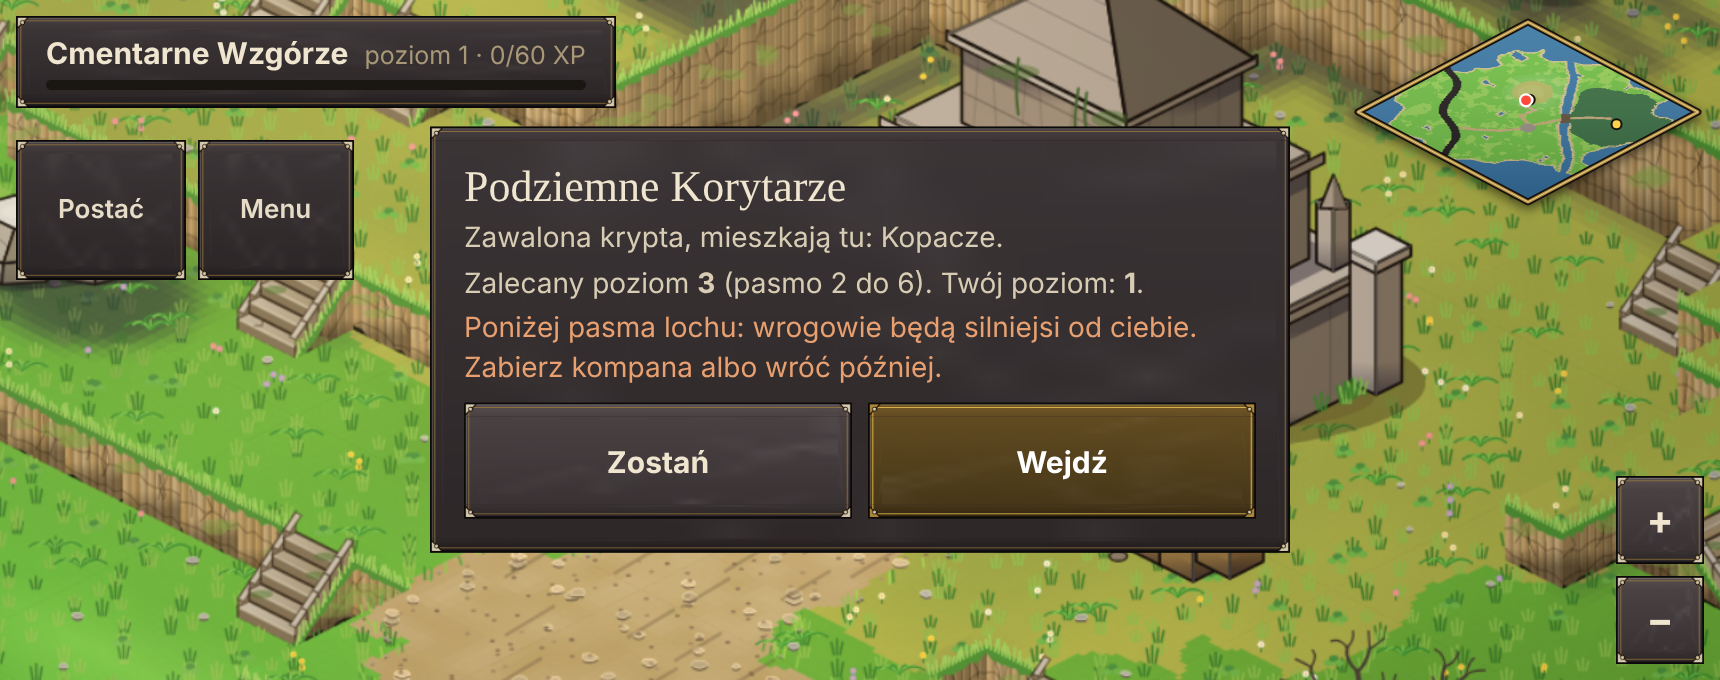
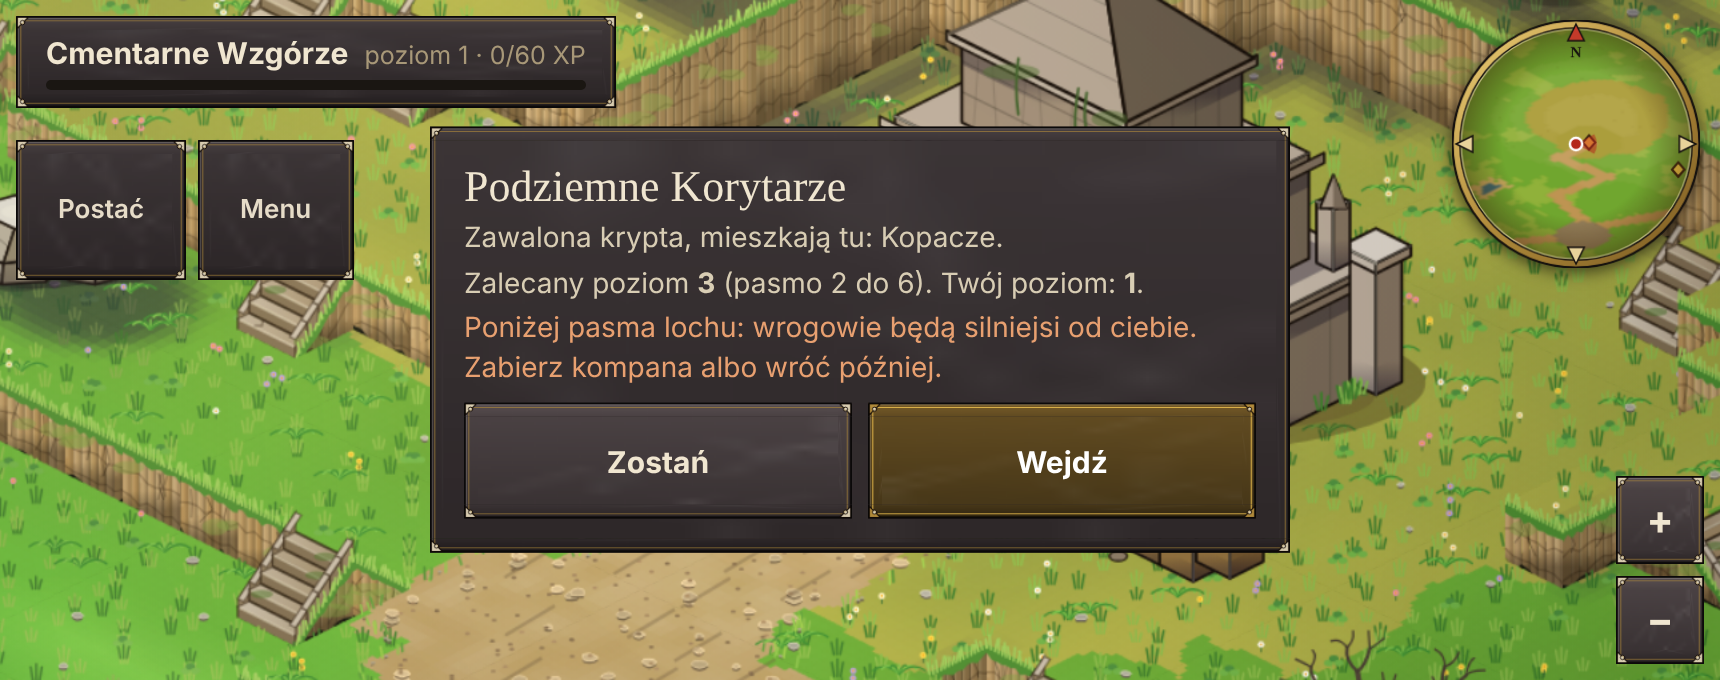
Minimapa w okręgu, trzy style do wyboru (Pergamin, Kryształ, Kompas), opcja w menu
Claude-Session: https://claude.ai/code/session_01YGgK3XekFYaLDhBRBtmmRq

Changed region(s): [[0.7703, 0.0309, 1.0, 0.4324]]

diff --git a/www/swiat.html b/www/swiat.html
@@ -11,7 +11,7 @@ button{font-family:inherit;color:inherit;touch-action:manipulation}
 #pause{position:fixed;inset:0;z-index:5;display:none;align-items:center;justify-content:center;background:rgba(6,6,8,.55)}#pause.on{display:flex}#pbox{position:static;pointer-events:auto;padding:8px 14px 12px;min-width:min(86vw,460px)}#pbox h2{margin:2px 0 8px;font:400 22px Georgia,serif}
 .opt{display:flex;align-items:center;justify-content:space-between;gap:10px;margin:6px 0;font-size:14px}.seg{display:flex;gap:4px}.seg button{min-height:38px;padding:0 12px;border:0;border-radius:8px;background:#2a2425;color:#d8cdb4;font:600 13px system-ui}.seg button.on{background:#b4501c;color:#fff}
 #pbox .row{display:flex;gap:8px;margin-top:10px}#pbox .row a,#pbox .row button{flex:1;min-height:44px;display:flex;align-items:center;justify-content:center;border:0;border-radius:10px;background:#3a2c26;color:#fff;text-decoration:none;font:700 14px system-ui}#pbox .row .go{background:#b4501c}
-#fps{right:max(8px,env(safe-area-inset-right));top:calc(max(8px,env(safe-area-inset-top)) + 100px);font:600 12px ui-monospace,monospace;padding:2px 8px;display:none}
+#fps{right:max(8px,env(safe-area-inset-right));top:calc(max(10px,env(safe-area-inset-top)) + 130px);font:600 12px ui-monospace,monospace;padding:2px 8px;display:none}
 #menu{position:fixed;left:max(8px,env(safe-area-inset-left));top:calc(max(8px,env(safe-area-inset-top)) + 62px);display:flex;gap:6px}#menu{z-index:3}#menu a,#menu button{pointer-events:auto;position:static;color:#e6dcc8;text-decoration:none;font:600 13px system-ui;padding:8px 14px;min-height:40px;display:flex;align-items:center}
 #toast{top:calc(max(8px,env(safe-area-inset-top)) + 4px);left:50%;transform:translateX(-50%);font:400 22px Georgia,serif;letter-spacing:.04em;opacity:0;transition:opacity .5s}
 #toast.on{opacity:1}
@@ -19,8 +19,8 @@ button{font-family:inherit;color:inherit;touch-action:manipulation}
 #hint:empty{display:none}
 #bubble{left:50%;top:38%;transform:translateX(-50%);max-width:min(60vw,520px);text-align:center;font-size:14px;line-height:1.4;display:none}
 #bubble b{display:block;color:#e0b44a;margin-bottom:2px}
-#mini{position:fixed;right:max(8px,env(safe-area-inset-right));top:max(8px,env(safe-area-inset-top));width:176px;height:96px;pointer-events:none}
-#mini canvas{width:176px;height:96px;display:block;filter:drop-shadow(0 2px 3px rgba(0,0,0,.55))}
+#mini{position:fixed;right:max(10px,env(safe-area-inset-right));top:max(10px,env(safe-area-inset-top));width:124px;height:124px;pointer-events:none}
+#mini canvas{width:124px;height:124px;display:block;filter:drop-shadow(0 2px 4px rgba(0,0,0,.6))}
 .zb{position:fixed;right:max(8px,env(safe-area-inset-right));width:44px;height:44px;border:7px solid transparent;border-image:var(--f-btn) 16 fill/7px stretch;background:#2a2425;font:700 20px system-ui;padding:0}
 #zin{bottom:calc(max(8px,env(safe-area-inset-bottom)) + 50px)}#zout{bottom:max(8px,env(safe-area-inset-bottom))}
 #card{left:50%;top:50%;transform:translate(-50%,-50%);display:none;pointer-events:auto;min-width:260px;max-width:min(78vw,430px);padding:6px 10px 10px}
@@ -35,9 +35,9 @@ button{font-family:inherit;color:inherit;touch-action:manipulation}
 <canvas id="c"></canvas>
 <div id="hud" class="pill"><span id="reg">Kopiec</span><small id="lvl"></small><i id="xpb"><b></b></i></div>
 <div id="menu"><a class="pill" id="mchar" href="postac.html?back=swiat.html">Postać</a><button class="pill" id="mmenu" type="button">Menu</button></div>
-<div id="pause"><div class="pill" id="pbox"><h2>Menu</h2><div class="opt"><span>Jakość grafiki</span><div class="seg" id="oq"></div></div><div class="opt"><span>Pora dnia</span><div class="seg" id="ot"></div></div><div class="opt"><span>Licznik FPS</span><div class="seg" id="of"></div></div><div class="row"><button id="presume" class="go" type="button">Wznów</button><a href="postac.html?back=swiat.html">Postać</a><a href="index.html">Menu główne</a></div></div></div><div id="fps" class="pill"></div>
+<div id="pause"><div class="pill" id="pbox"><h2>Menu</h2><div class="opt"><span>Jakość grafiki</span><div class="seg" id="oq"></div></div><div class="opt"><span>Pora dnia</span><div class="seg" id="ot"></div></div><div class="opt"><span>Minimapa</span><div class="seg" id="om"></div></div><div class="opt"><span>Licznik FPS</span><div class="seg" id="of"></div></div><div class="row"><button id="presume" class="go" type="button">Wznów</button><a href="postac.html?back=swiat.html">Postać</a><a href="index.html">Menu główne</a></div></div></div><div id="fps" class="pill"></div>
 <div id="toast" class="pill"></div>
-<div id="mini"><canvas id="mm" width="352" height="192"></canvas></div>
+<div id="mini"><canvas id="mm" width="240" height="240"></canvas></div>
 <button class="zb" id="zin" aria-label="Przybliż">+</button><button class="zb" id="zout" aria-label="Oddal">−</button>
 <div id="bubble" class="pill"></div>
 <div id="card" class="pill"></div>
@@ -49,7 +49,7 @@ import {generateWorld,N,REGIONS,HZ} from '../src/world/kraina.js';
 import {heightAt,findPath,newWalker,setPath,stepWalker,freeAt} from '../src/world/nav.js';
 import {WorldView} from '../src/art/worldview.js';
 import {genCharacter,drawCharacter,DIRS,DIRS8,dir8} from '../src/art/characters.js';
-import {loadSettings,saveSettings,QUALITY,QUALITY_IDS,TIME_MODES,TIME_NAMES} from '../src/game/settings.js';
+import {loadSettings,saveSettings,QUALITY,QUALITY_IDS,TIME_MODES,TIME_NAMES,MINIMAPS,MINIMAP_NAMES} from '../src/game/settings.js';
 import {darkness,drawNight} from '../src/art/daylight.js';
 import {heroSpec} from '../src/art/classes.js';
 import {applyMood} from '../src/art/mood.js';
@@ -67,7 +67,7 @@ const hero=newWalker(...world.start);let face='SE';
 const AT={krypta:world.entrances[0].approach,jama:world.entrances[1].approach,start:world.start,bród:world.roads.east[2],ford:world.roads.east[2],trakt:world.roads.west[3],wzgorze:world.roads.up[2],las:world.roads.east[4],plac:[world.start[0]-4,world.start[1]-9],studnia:(()=>{const o=world.objects.find(q=>q.k==='well');return o?[o.x-1.5,o.y+2.5]:world.start})(),plot:(()=>{const o=world.objects.find(q=>q.k==='fence');return o?[o.x-2,o.y+2]:world.start})()};
 if(Q.get('at')&&AT[Q.get('at')]){hero.x=AT[Q.get('at')][0];hero.y=AT[Q.get('at')][1]}
 const npcSpec=world.npcs.map(n=>({...genCharacter(n.seed,n.role),sc:1.0}));
-const SET=loadSettings();if(Q.get('quality')&&QUALITY[Q.get('quality')])SET.quality=Q.get('quality');if(Q.get('time')&&TIME_MODES.includes(Q.get('time')))SET.time=Q.get('time');
+const SET=loadSettings();if(Q.get('quality')&&QUALITY[Q.get('quality')])SET.quality=Q.get('quality');if(Q.get('time')&&TIME_MODES.includes(Q.get('time')))SET.time=Q.get('time');if(Q.get('minimap')&&MINIMAPS.includes(Q.get('minimap')))SET.minimap=Q.get('minimap');
 wv.setQuality(QUALITY[SET.quality]);const night=document.createElement('canvas');
 let zoom=Number(Q.get('zoom'))||0.8,dpr=1,CW=0,CH=0,cam={x:0,y:0},pending=null,bubbleT=0,lastReg=-1,t0=performance.now();
 // malarskie światło: ciepła poświata z lewej góry i ukośne smugi słońca przebijające przez korony (mocniejsze w lesie), zakotwiczone w świecie
@@ -92,25 +92,55 @@ let vig=null;function drawVig(){if(!vig||vig.width!==cv.width||vig.height!==cv.h
 function resize(){dpr=Math.min(QUALITY[SET.quality].dprMax,devicePixelRatio||1);const r=cv.getBoundingClientRect();CW=r.width;CH=r.height;cv.width=Math.round(CW*dpr);cv.height=Math.round(CH*dpr);night.width=cv.width;night.height=cv.height;vig=null}
 addEventListener('resize',resize);resize();
 {const p=wv.pos(hero.x,hero.y);cam.x=p[0];cam.y=p[1]-30}
-// minimapa: romb jak świat w grze, jedna płótno; tło (teren, ramka) rysowane raz, na nim wejścia i bohater
-const MW=352,MH=192,MR=6,mmc=$('mm').getContext('2d'),mbg=document.createElement('canvas');mbg.width=MW;mbg.height=MH;
-const mpt=(x,y)=>[MW/2+(x-y)/N*(MW/2-MR),MR+(x+y)/N*(MH/2-MR)];
-{const base=document.createElement('canvas');base.width=base.height=N;const m=base.getContext('2d'),im=m.createImageData(N,N),B=[[98,.5,.5],[88,.55,.56],[128,.34,.32],[62,.4,.46],[32,.08,.44],[38,.42,.62],[40,.1,.55],[48,.45,.68],[205,.5,.42],[30,.3,.3],[20,.12,.07]];
+// minimapa w okręgu: wokół bohatera, północ u góry; mapa terenu jest rysowana raz (w rzucie izometrycznym jak świat), a ramka zależy od wybranego stylu
+const MS=240,MC=MS/2,PXT=3,mmc=$('mm').getContext('2d');
+const base=document.createElement('canvas');base.width=base.height=N;
+{const m=base.getContext('2d'),im=m.createImageData(N,N),B=[[98,.5,.5],[88,.55,.56],[128,.34,.32],[62,.4,.46],[32,.08,.44],[38,.42,.62],[40,.1,.55],[48,.45,.68],[205,.5,.42],[30,.3,.3],[20,.12,.07]];
   const hsl2=(h,s,l)=>{const k=n=>(n+h/30)%12,a=s*Math.min(l,1-l),f=n=>l-a*Math.max(-1,Math.min(k(n)-3,Math.min(9-k(n),1)));return[f(0),f(8),f(4)].map(v=>Math.round(v*255))};
   for(let y=0;y<N;y++)for(let x=0;x<N;x++){const kind=world.cellKind[y*N+x],b=B[kind],h=heightAt(world,x+.5,y+.5),rgb=hsl2(b[0],b[1],Math.max(.1,Math.min(.8,b[2]+h*.03)));const i=(y*N+x)*4;im.data[i]=rgb[0];im.data[i+1]=rgb[1];im.data[i+2]=rgb[2];im.data[i+3]=255}
-  m.putImageData(im,0,0);
-  const g=mbg.getContext('2d'),dia=()=>{g.beginPath();g.moveTo(MW/2,MR);g.lineTo(MW-MR,MH/2);g.lineTo(MW/2,MH-MR);g.lineTo(MR,MH/2);g.closePath()};
-  g.save();dia();g.clip();g.setTransform((MW/2-MR)/N,(MH/2-MR)/N,-(MW/2-MR)/N,(MH/2-MR)/N,MW/2,MR);g.imageSmoothingEnabled=true;g.drawImage(base,0,0);g.restore();
-  g.save();dia();g.clip();const sh=g.createLinearGradient(0,0,0,MH);sh.addColorStop(0,'rgba(255,255,255,.1)');sh.addColorStop(1,'rgba(0,0,20,.22)');g.fillStyle=sh;g.fillRect(0,0,MW,MH);g.restore();
-  dia();g.lineJoin='round';g.lineWidth=7;g.strokeStyle='#15110f';g.stroke();g.lineWidth=3.2;g.strokeStyle='#b08a3a';g.stroke();g.lineWidth=1;g.strokeStyle='#e8d29a';g.stroke()}
-function mini(){mmc.clearRect(0,0,MW,MH);mmc.drawImage(mbg,0,0);
-  for(const e of world.entrances){const p=mpt(e.at[0],e.at[1]);mmc.fillStyle='#ffd24a';mmc.beginPath();mmc.arc(p[0],p[1],5,0,7);mmc.fill();mmc.strokeStyle='#15110f';mmc.lineWidth=2;mmc.stroke()}
-  const h=mpt(hero.x,hero.y);mmc.fillStyle='#ff4a3a';mmc.beginPath();mmc.arc(h[0],h[1],6,0,7);mmc.fill();mmc.strokeStyle='#fff';mmc.lineWidth=2.2;mmc.stroke()}
+  m.putImageData(im,0,0)}
+const MMST={
+  a:{name:'Pergamin',tint:['multiply','rgb(250,232,190)'],wash:'rgba(150,100,40,.1)',bg:'#d8c08a',dot:'#ffd24a',dotLine:'#3a2410',me:'#b4281c'},
+  b:{name:'Kryształ',tint:['multiply','rgb(150,190,235)'],wash:'rgba(10,20,60,.22)',bg:'#0b1226',dot:'#ffe38a',dotLine:'#0b1226',me:'#7ff0ff'},
+  c:{name:'Kompas',tint:['multiply','rgb(205,218,190)'],wash:'rgba(40,30,20,.14)',bg:'#2a2622',dot:'#ffb84a',dotLine:'#1a1410',me:'#ff5a3a'}};
+let mmBig=null,mmFrame=null,mmKey='';
+function buildMM(key){
+  const st=MMST[key]||MMST.a,W=N*PXT*2,H=N*PXT,c=document.createElement('canvas');c.width=W;c.height=H;const q=c.getContext('2d');
+  q.fillStyle=st.bg;q.fillRect(0,0,W,H);q.imageSmoothingEnabled=true;q.setTransform(PXT,PXT/2,-PXT,PXT/2,N*PXT,0);q.drawImage(base,0,0);q.setTransform(1,0,0,1,0,0);
+  q.globalCompositeOperation=st.tint[0];q.fillStyle=st.tint[1];q.fillRect(0,0,W,H);q.globalCompositeOperation='source-over';q.fillStyle=st.wash;q.fillRect(0,0,W,H);
+  if(key==='a'){for(let i=0;i<900;i++){const x=Math.abs(Math.sin(i*12.9898)*43758.5453)%1*W,y=Math.abs(Math.sin(i*78.233)*12345.6789)%1*H;q.fillStyle=`rgba(90,60,20,${0.03+0.05*((i*7)%5)/5})`;q.fillRect(x,y,1.5+(i%3),1.5)}}
+  mmBig=c;
+  // ramka i dekoracje (rysowane raz)
+  const f=document.createElement('canvas');f.width=f.height=MS;const g2=f.getContext('2d');
+  const ring=(r,w,col)=>{g2.beginPath();g2.arc(MC,MC,r,0,7);g2.lineWidth=w;g2.strokeStyle=col;g2.stroke()};
+  if(key==='a'){const vg=g2.createRadialGradient(MC,MC,MC*0.6,MC,MC,MC);vg.addColorStop(0,'rgba(60,35,10,0)');vg.addColorStop(1,'rgba(60,35,10,.55)');g2.fillStyle=vg;g2.beginPath();g2.arc(MC,MC,MC-2,0,7);g2.fill();
+    ring(MC-4,9,'#15110f');const mg=g2.createLinearGradient(0,0,MS,MS);mg.addColorStop(0,'#f0d27a');mg.addColorStop(0.5,'#b08a3a');mg.addColorStop(1,'#7a5a22');ring(MC-4,6,mg);ring(MC-9,1.2,'rgba(255,240,190,.6)');ring(MC-0.8,1.5,'#15110f');
+    for(let i=0;i<4;i++){g2.save();g2.translate(MC,MC);g2.rotate(i*Math.PI/2);g2.fillStyle=i?'#e8d29a':'#c43a2a';g2.strokeStyle='#15110f';g2.lineWidth=1.5;g2.beginPath();g2.moveTo(0,-MC+4);g2.lineTo(8,-MC+20);g2.lineTo(-8,-MC+20);g2.closePath();g2.fill();g2.stroke();g2.restore()}
+    g2.fillStyle='#15110f';g2.font='700 15px Georgia,serif';g2.textAlign='center';g2.fillText('N',MC,MC-MC+36)}
+  else if(key==='b'){const vg=g2.createRadialGradient(MC,MC,MC*0.4,MC,MC,MC);vg.addColorStop(0,'rgba(0,0,0,0)');vg.addColorStop(0.85,'rgba(5,10,30,.5)');vg.addColorStop(1,'rgba(5,10,30,.85)');g2.fillStyle=vg;g2.beginPath();g2.arc(MC,MC,MC-2,0,7);g2.fill();
+    ring(MC-3,6,'#0a0e1c');const sg=g2.createLinearGradient(0,0,MS,MS);sg.addColorStop(0,'#e8f0ff');sg.addColorStop(0.5,'#7a8aa8');sg.addColorStop(1,'#3a4660');ring(MC-3,3.4,sg);ring(MC-8,1,'rgba(160,230,255,.5)');
+    const hl=g2.createLinearGradient(MC*0.4,0,MC*1.2,MC);hl.addColorStop(0,'rgba(255,255,255,.28)');hl.addColorStop(1,'rgba(255,255,255,0)');g2.fillStyle=hl;g2.beginPath();g2.ellipse(MC*0.8,MC*0.55,MC*0.62,MC*0.3,-0.5,0,7);g2.fill();
+    g2.fillStyle='#bfe9ff';g2.font='700 13px system-ui';g2.textAlign='center';g2.fillText('N',MC,26)}
+  else{ring(MC-3,8,'#14100e');const bg2=g2.createLinearGradient(0,0,MS,MS);bg2.addColorStop(0,'#c89a5a');bg2.addColorStop(1,'#6a4a28');ring(MC-3,5,bg2);
+    for(let i=0;i<72;i++){const a=i*Math.PI/36,long=i%6===0,r0=MC-9,r1=r0-(long?9:4);g2.beginPath();g2.moveTo(MC+Math.sin(a)*r0,MC-Math.cos(a)*r0);g2.lineTo(MC+Math.sin(a)*r1,MC-Math.cos(a)*r1);g2.lineWidth=long?1.6:0.8;g2.strokeStyle=long?'#f0d8a0':'rgba(240,216,160,.6)';g2.stroke()}
+    g2.fillStyle='#f0d8a0';g2.font='700 14px Georgia,serif';g2.textAlign='center';g2.textBaseline='middle';for(const [t,a] of [['N',0],['E',90],['S',180],['W',270]]){const r=MC-30,aa=a*Math.PI/180;g2.fillText(t,MC+Math.sin(aa)*r,MC-Math.cos(aa)*r)}}
+  mmFrame=f;mmKey=key}
+function mini(){
+  if(mmKey!==SET.minimap)buildMM(SET.minimap);const st=MMST[SET.minimap]||MMST.a;
+  mmc.clearRect(0,0,MS,MS);mmc.save();mmc.beginPath();mmc.arc(MC,MC,MC-4,0,7);mmc.clip();
+  const hx=N*PXT+(hero.x-hero.y)*PXT,hy=(hero.x+hero.y)*PXT/2;mmc.drawImage(mmBig,MC-hx,MC-hy);
+  for(const e of world.entrances){const ex=N*PXT+(e.at[0]-e.at[1])*PXT-hx+MC,ey=(e.at[0]+e.at[1])*PXT/2-hy+MC,dx=ex-MC,dy=ey-MC,d=Math.hypot(dx,dy),lim=MC-18,k=d>lim?lim/d:1,px=MC+dx*k,py=MC+dy*k;
+    mmc.fillStyle=st.dot;mmc.strokeStyle=st.dotLine;mmc.lineWidth=2;mmc.beginPath();mmc.moveTo(px,py-7);mmc.lineTo(px+6,py);mmc.lineTo(px,py+7);mmc.lineTo(px-6,py);mmc.closePath();mmc.fill();mmc.stroke();if(k<1){mmc.globalAlpha=.7;mmc.stroke();mmc.globalAlpha=1}}
+  mmc.restore();mmc.drawImage(mmFrame,0,0);
+  // bohater: punkt z klinem w stronę ruchu (na ekranie)
+  const ang=lanternA??0;mmc.save();mmc.translate(MC,MC);mmc.rotate(ang);mmc.fillStyle=st.me;mmc.globalAlpha=.55;mmc.beginPath();mmc.moveTo(0,0);mmc.arc(0,0,20,-0.5,0.5);mmc.closePath();mmc.fill();mmc.globalAlpha=1;mmc.restore();
+  mmc.fillStyle=st.me;mmc.strokeStyle='#fff';mmc.lineWidth=2.4;mmc.beginPath();mmc.arc(MC,MC,6,0,7);mmc.fill();mmc.stroke()}
 const say=t=>{$('hint').textContent=t};
 function buildOpts(){
   const seg=(id,items,cur,fn)=>{const el=$(id);el.innerHTML='';for(const [k,name] of items){const b=document.createElement('button');b.type='button';b.textContent=name;b.className=k===cur?'on':'';b.onclick=()=>{fn(k);buildOpts()};el.append(b)}};
   seg('oq',QUALITY_IDS.map(k=>[k,QUALITY[k].name]),SET.quality,k=>{SET.quality=k;saveSettings(SET);wv.setQuality(QUALITY[k]);resize()});
   seg('ot',TIME_MODES.map(k=>[k,TIME_NAMES[k]]),SET.time,k=>{SET.time=k;saveSettings(SET)});
+  seg('om',MINIMAPS.map(k=>[k,MINIMAP_NAMES[k]]),SET.minimap,k=>{SET.minimap=k;saveSettings(SET)});
   seg('of',[[false,'Wył.'],[true,'Wł.']],SET.fps,k=>{SET.fps=k;saveSettings(SET)});
 }
 let paused=false;const setPause=v=>{paused=v;$('pause').classList.toggle('on',v);if(v)buildOpts()};

diff --git a/src/game/settings.js b/src/game/settings.js
@@ -8,9 +8,11 @@ export const QUALITY = {
   high: { name: 'Wysoka', dprMax: 2, shadowRes: 12, decals: true, beams: true, water: 'full', smoke: true, shadowSprites: true },
 };
 export const TIME_NAMES = { cycle: 'Zmienna', day: 'Zawsze dzień', night: 'Zawsze noc' };
-export const DEFAULTS = { quality: 'medium', time: 'cycle', fps: false };
+export const MINIMAPS = ['a', 'b', 'c'];
+export const MINIMAP_NAMES = { a: 'Pergamin', b: 'Kryształ', c: 'Kompas' };
+export const DEFAULTS = { quality: 'medium', time: 'cycle', fps: false, minimap: 'a' };
 const store = () => { try { return globalThis.localStorage || null; } catch { return null; } };
-export function validSettings(s) { return !!s && typeof s === 'object' && QUALITY_IDS.includes(s.quality) && TIME_MODES.includes(s.time) && typeof s.fps === 'boolean'; }
+export function validSettings(s) { return !!s && typeof s === 'object' && QUALITY_IDS.includes(s.quality) && TIME_MODES.includes(s.time) && typeof s.fps === 'boolean' && (s.minimap === undefined || MINIMAPS.includes(s.minimap)); }
 export function loadSettings(storage = store()) {
   if (!storage) return { ...DEFAULTS };
   try { const s = JSON.parse(storage.getItem(SETTINGS_KEY)); return validSettings(s) ? { ...DEFAULTS, ...s } : { ...DEFAULTS }; } catch { return { ...DEFAULTS }; }
